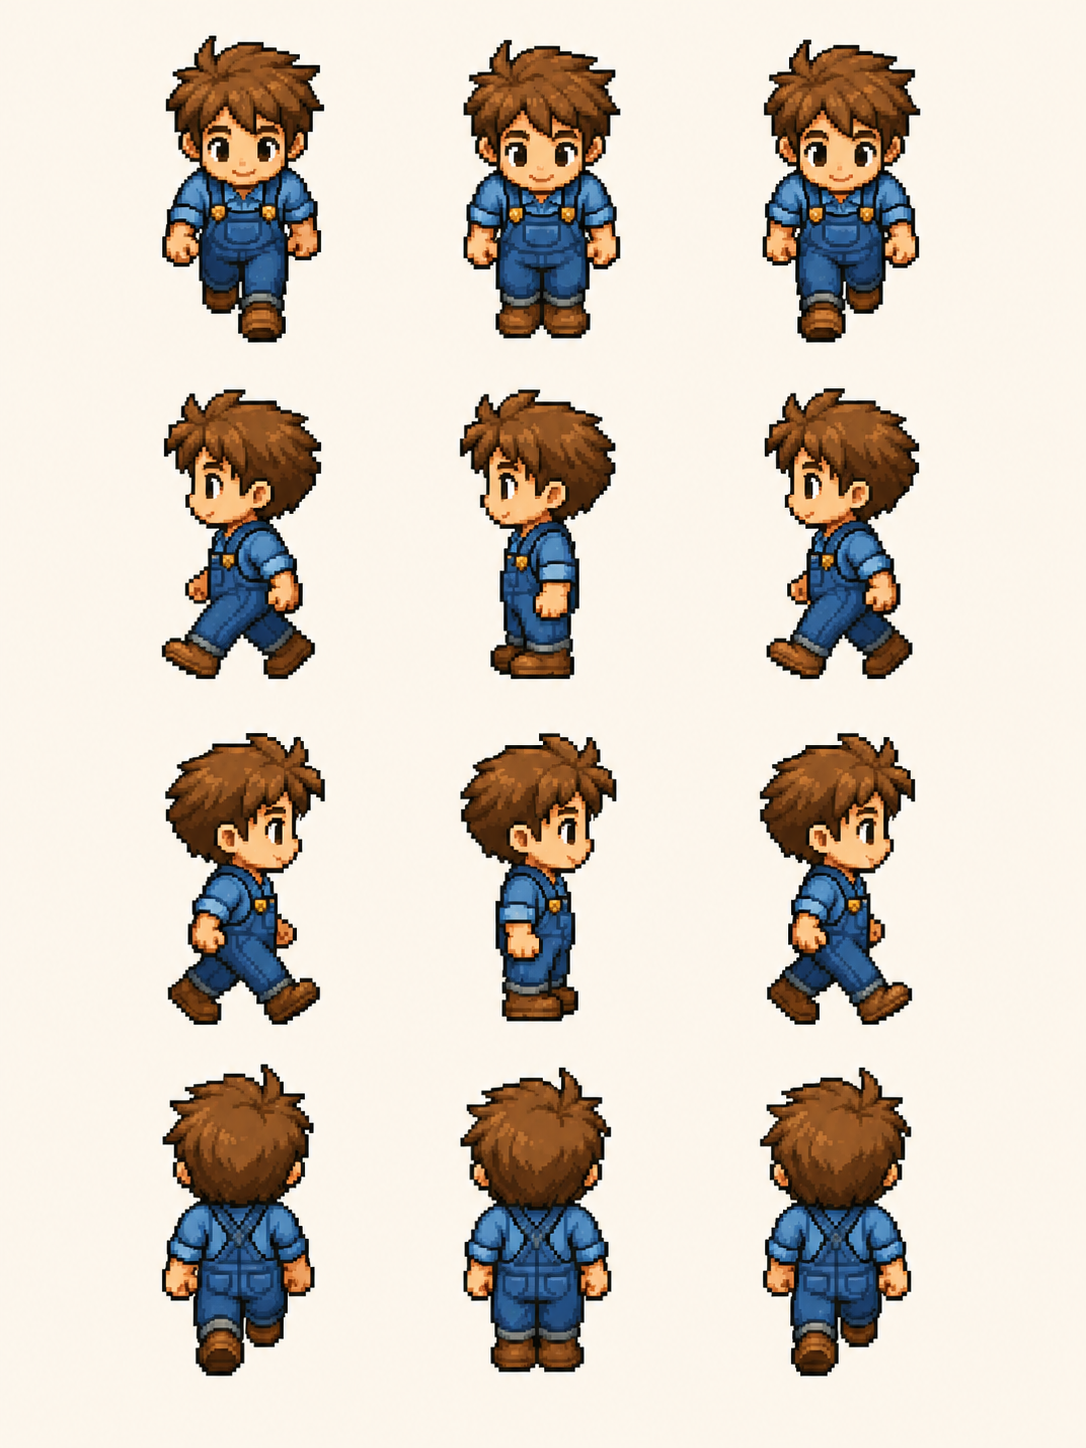
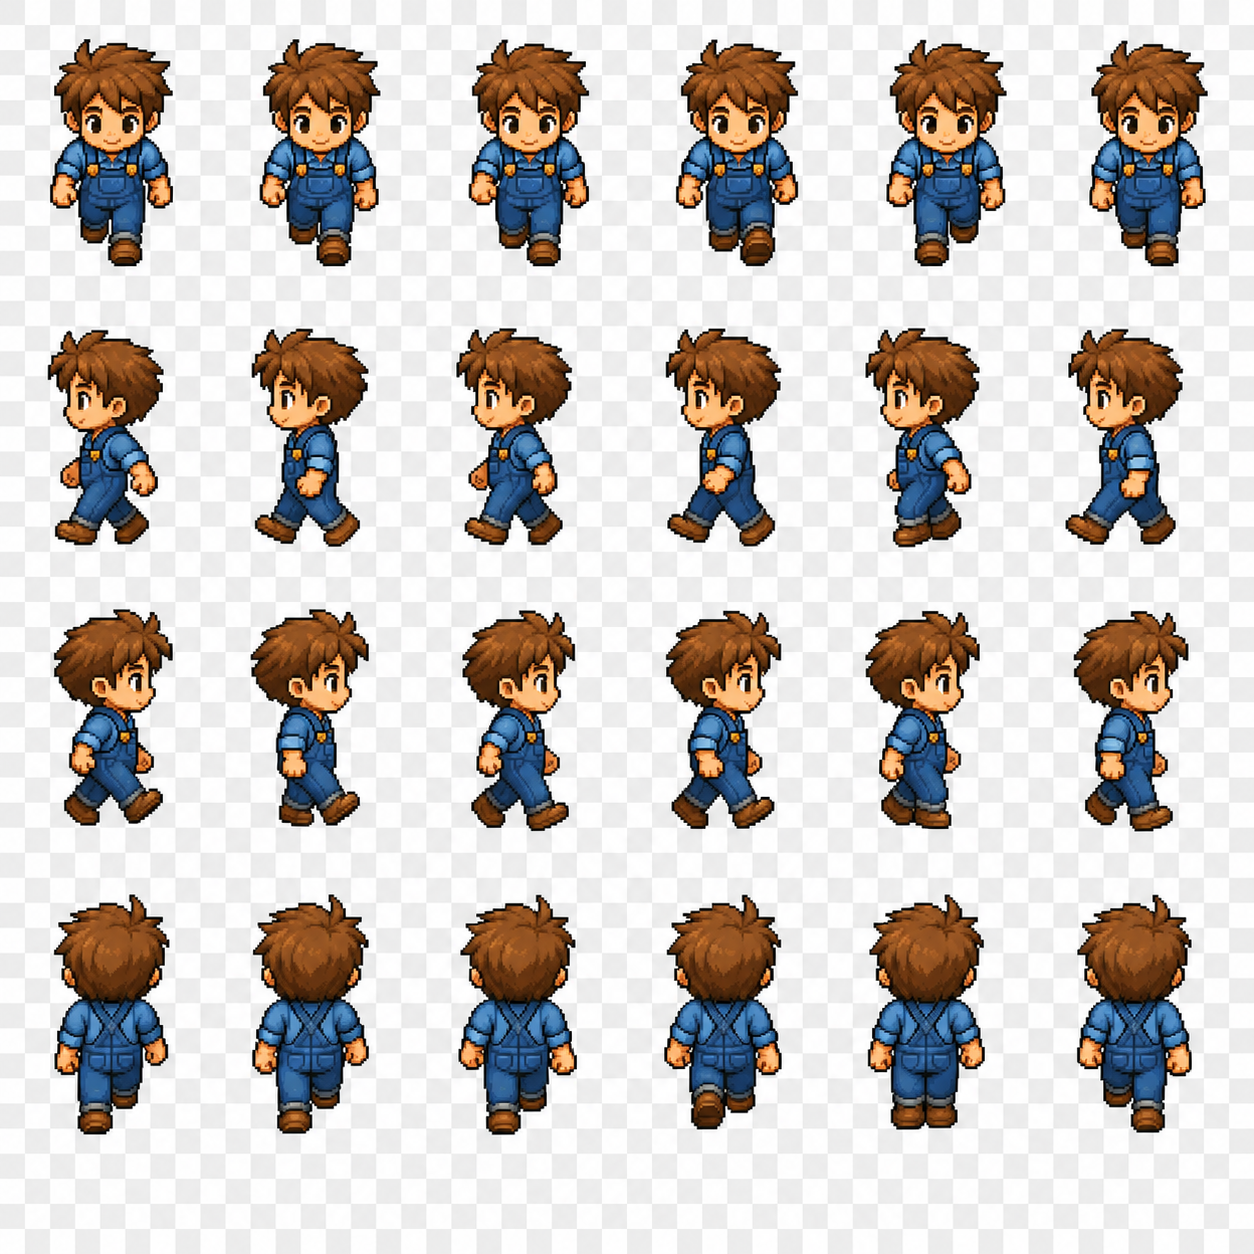
Support 6-frame character spritesheets with smooth walk cycle animation

diff --git a/sprites.py b/sprites.py
@@ -336,23 +336,19 @@ def get_player_frames(direction: int) -> List[pygame.Surface]:
     key = DIR_NAMES[direction]
     if key not in _player_cache:
         if _player_sheet:
-            fw = _player_sheet.get_width() // 3
-            fh = _player_sheet.get_height() // 4
+            sheet_w = _player_sheet.get_width()
+            sheet_h = _player_sheet.get_height()
+            num_cols = max(1, round(sheet_w / (sheet_h / 4)))
+            fw = sheet_w // num_cols
+            fh = sheet_h // 4
             
             def get_frame(col: int) -> pygame.Surface:
                 rect = pygame.Rect(col * fw, direction * fh, fw, fh)
                 raw_frame = _player_sheet.subsurface(rect)
-                # If image is pixel art, scale is better than smoothscale, but 
-                # smoothscale works better for high-res images downscaled.
                 return pygame.transform.smoothscale(raw_frame, (T, T))
 
-            # Layout: Row = direction (0=down, 1=up, 2=left, 3=right)
-            # Col: 0 = walk1, 1 = idle, 2 = walk2
-            frames = [
-                get_frame(1),  # Idle
-                get_frame(0),  # Walk 1
-                get_frame(2),  # Walk 2
-            ]
+            # Return all frames for this direction row
+            frames = [get_frame(c) for c in range(num_cols)]
             
             _player_cache[key] = frames
         else:

diff --git a/player.py b/player.py
@@ -202,9 +202,19 @@ class Player:
         # Animation
         if self.moving:
             self.anim_timer += dt
-            if self.anim_timer >= 0.18:
+            if self.anim_timer >= 0.12:
                 self.anim_timer = 0.0
-                self.anim_frame = 1 if self.anim_frame != 1 else 2
+                # Cycle through walk frames (1 .. N-1), skip frame 0 (idle)
+                frames = get_player_frames(self.direction)
+                num_frames = len(frames)
+                if num_frames <= 3:
+                    # Classic 3-frame: alternate between 1 and 2
+                    self.anim_frame = 1 if self.anim_frame != 1 else 2
+                else:
+                    # 4+ frames: cycle 1 → 2 → ... → N-1 → 1
+                    self.anim_frame += 1
+                    if self.anim_frame >= num_frames:
+                        self.anim_frame = 1
         else:
             self.anim_frame = 0
             self.anim_timer = 0.0